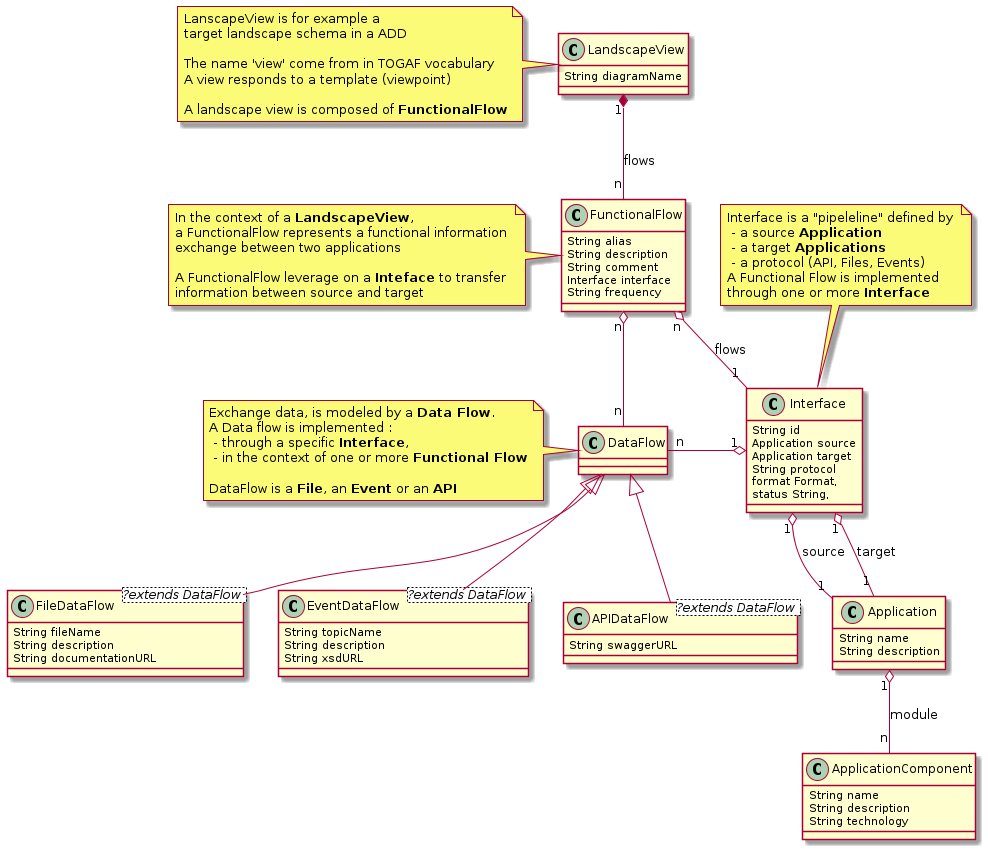
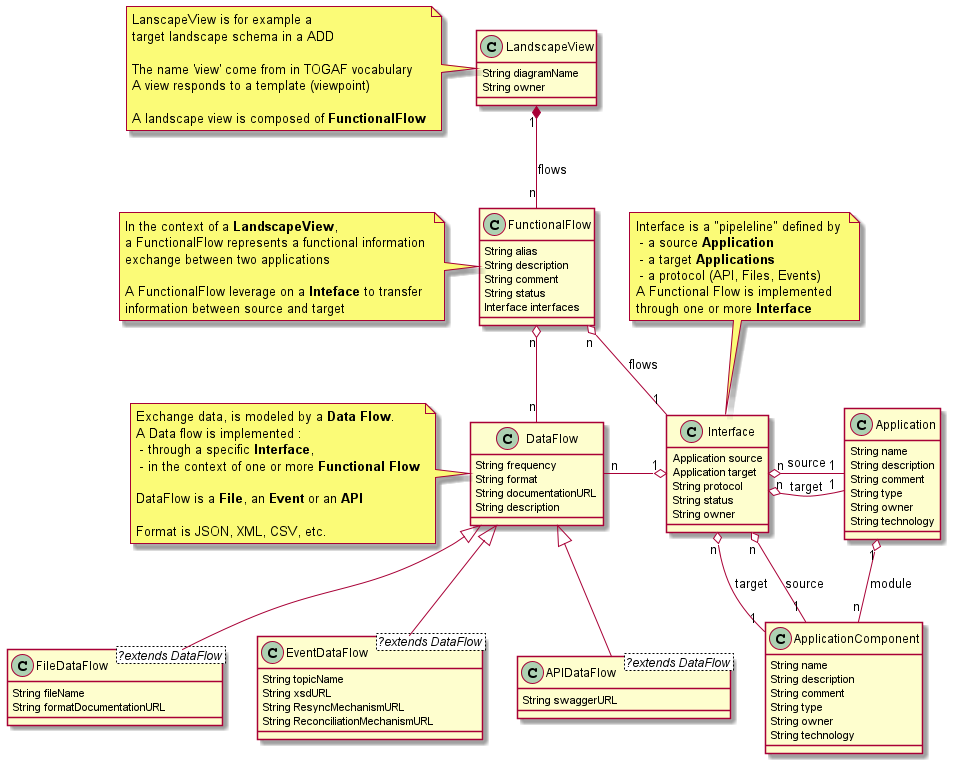
Add fadditional fields to manager status, ownerships, etc. Add relationship Intefaces/Components

diff --git a/documentation/metamodel/README.md b/documentation/metamodel/README.md
@@ -60,9 +60,13 @@ Interface is a "pipeline" between two applications and it's fully defined by :
 
 On the other hand, an Interfcae could be used to implement different Functional Flows, even in different Landscapes.
 
+But an Interface has a unique owner (a DEVOPS team)
+
+
 ## DataFlow
 
-In the context of a Function Flow, exchange data through a specific Interface is implemented by **DataFlow** 
+In the context of a Function Flow, exchange data through a specific Interface is implemented by a **DataFlow** 
+
 
 Concretly, DataFlow is one of the following artifact:
 - a **File**, 
@@ -70,7 +74,6 @@ Concretly, DataFlow is one of the following artifact:
 - or **API**
 
 <br/>
-
 
 > FunctionalFlow createCustomer is implemented trhough two 
 > Interfcaces, and then via multiple DataFlow transfer in each 
@@ -80,6 +83,9 @@ Concretly, DataFlow is one of the following artifact:
 > 
 > ![dataflow view](png/plantuml-dataflow/plantuml-dataflow.png)
 
+<br/>
+
+A dataflow if implemented through an Interface, hence dataflow ownership is define by Interface owner.
 
 # Meta-Model
 
